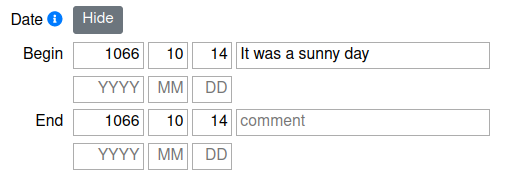
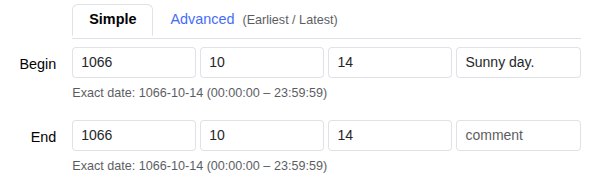
Manual screenshots

diff --git a/sphinx/source/examples/time_spans.rst b/sphinx/source/examples/time_spans.rst
@@ -31,18 +31,24 @@ are already present or when a date error needs attention.
 How to enter dates and time spans
 ---------------------------------
 
-.. image:: date.png
+.. tab-set::
 
-The current form has two views. **Simple** provides one date for **Begin** and
-one for **End**. **Advanced** provides two bounds for each date:
+   .. tab-item:: Simple
+      :sync: simple
+
+      .. image:: date_simple.png
+
+   .. tab-item:: Advanced
+      :sync: advanced
+
+      .. image:: date_advanced.png
+
+The date form has two views. **Simple** provides one date for **Begin** and one
+for **End**. **Advanced** provides two bounds for each date:
 
 * **Begin — Earliest / Latest** bounds the uncertain date on which the event
   began.
 * **End — Earliest / Latest** bounds the uncertain date on which it ended.
-
-The screenshots in this section show the earlier four-row layout. The current
-form labels those rows **Earliest** and **Latest** in the **Advanced** view; the
-screenshots are retained unchanged.
 
 Each pair describes uncertainty in that particular date, not the duration of a
 process between the two bounds. A single bound can be left open when its limit
@@ -70,19 +76,17 @@ For an exact calendar day, enter the full date in **Simple**. For the Battle of
 Hastings, enter **1066-10-14** as both **Begin** and **End**. A date without a
 specific time represents the whole day, not one instant.
 
-In **Advanced**, enter that same date in both bounds of each exact date: put
-**1066-10-14** in **Begin Earliest** and **Begin Latest**, and in **End
-Earliest** and **End Latest**. A date entered in only one Advanced bound is an
-open earliest or latest limit, not an exact date.
-
 .. image:: date_hastings.png
+
+If you enter the same exact date in **Advanced**, put **1066-10-14** in both
+bounds of each pair (**Begin Earliest** and **Begin Latest**, as well as **End
+Earliest** and **End Latest**). Entering a date in only one Advanced bound
+creates an open earliest or latest limit, not an exact date.
 
 The Peace of Westphalia refers to two peace treaties, signed in Osnabrück on
 **1648-05-15** and in Münster on **1648-10-24**. In **Simple**, enter
-**1648-05-15** as **Begin** and **1648-10-24** as **End**. In **Advanced**,
-enter each date in both bounds of its pair: **Begin Earliest** and **Begin
-Latest** for **1648-05-15**, then **End Earliest** and **End Latest** for
-**1648-10-24**.
+**1648-05-15** as **Begin** and **1648-10-24** as **End** (or, in **Advanced**,
+enter each date in both bounds of its pair).
 
 .. image:: date_westphalia.png
 
@@ -119,7 +123,17 @@ Latest** to express the birth-year interval. For the exact death day, enter
 **1038-08-15** in both **End Earliest** and **End Latest**; filling only
 **End Earliest** would instead leave the latest end date unknown.
 
-.. image:: date_stephen.png
+.. tab-set::
+
+   .. tab-item:: Simple
+      :sync: simple
+
+      .. image:: date_stephen_simple.png
+
+   .. tab-item:: Advanced
+      :sync: advanced
+
+      .. image:: date_stephen_advanced.png
 
 
 One-sided bounds
@@ -135,6 +149,8 @@ Similarly, if an itinerary dated **1220-10-04** says a church had already been
 destroyed or was no longer standing, enter that date in **End Latest** and
 leave **End Earliest** empty. This means the end occurred by **1220-10-04** at
 the latest; it does not assert how long a destruction process lasted.
+
+.. image:: date_church_advanced.png
 
 The inverse is also possible. If a source establishes that a beginning date
 was no earlier than **1150-06-15**, enter it in **Begin Earliest** and leave
@@ -161,4 +177,4 @@ are completed according to the bound: **Earliest** fills missing values with
 **23** and missing minutes and seconds with **59** (for example, **23:59:59**
 when blank, **12:59:59** for hour **12**, or **12:30:59** for **12:30**).
 
-.. image:: date_hours.png
+.. image:: date_time_advanced.png

diff --git a/sphinx/source/ui/date.rst b/sphinx/source/ui/date.rst
@@ -13,12 +13,19 @@ or the form contains a date error, the date section opens automatically. The
 form also selects **Advanced** when the stored dates cannot be represented by
 the simple fields or when there is a date error.
 
-There are two date-entry views:
+There are two date-entry views, **Simple** and **Advanced**:
 
-.. image:: date.png
+.. tab-set::
 
-The screenshot shows the earlier four-row layout. In the current form, choose
-between **Simple** and **Advanced** after opening the date fields.
+   .. tab-item:: Simple
+      :sync: simple
+
+      .. image:: /examples/date_simple.png
+
+   .. tab-item:: Advanced
+      :sync: advanced
+
+      .. image:: /examples/date_advanced.png
 
 **Simple and Advanced views**
 
@@ -113,6 +120,8 @@ for the entity. Empty time fields are completed according to the bound: an
 while a **Latest** bound fills an omitted hour with **23** and omitted minutes
 and seconds with **59** (defaulting to **23:59:59**, **12:59:59** for hour
 **12**, or **12:30:59** for **12:30**).
+
+.. image:: /examples/date_time_advanced.png
 
 **Background**
 
